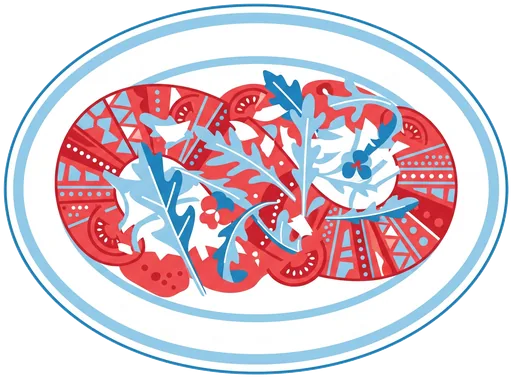
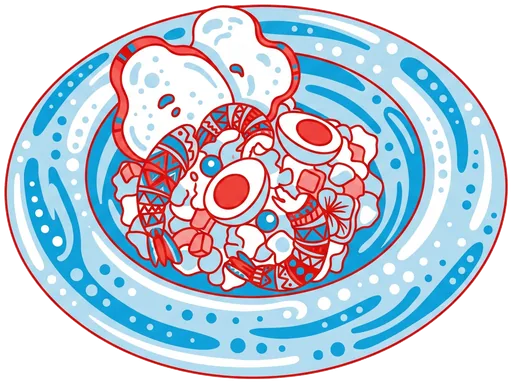
fix(menu): свап значков салаты↔закуски + значки в шапку раздела с индивид. масштабом
Наталья прислала правку: синяя тарелка (яйцо/пельмени) → авторские салаты,
красная с помидорами (стояла на салатах) → закуски. Перенёс starter-plate
в масштаб 1.32 к семье овальных тарелок (супы/горячее/салаты), иначе
перенесённый значок рендерился мельче.

Заодно в дереве: значки переведены из медальона-на-карточке в шапку раздела
(.mn__ch-iconbox, per-section --icon-scale/--icon-x/--icon-y) — чище и без
зависимости от структуры карточек; «Вонголе» → «Ракушки вонголе».

diff --git a/src/app/menu/page.tsx b/src/app/menu/page.tsx
@@ -132,7 +132,7 @@ const fmtP = (n: number) => formatNumber(n).replace(/ /g, " ");
 const NAV_LABEL: Record<string, string> = {
   crab: "Краб", raki: "Раки", starters: "Закуски", shrimp: "Креветки",
   salads: "Салаты", hot: "Горячее", soups: "Супы", mussels: "Мидии",
-  mains: "Главный курс", garnish: "Гарниры", vongole: "Вонголе", sauces: "Соусы",
+  mains: "Главный курс", garnish: "Гарниры", vongole: "Ракушки", sauces: "Соусы",
   desserts: "Десерты", drinks: "Напитки",
 };
 
@@ -140,7 +140,7 @@ const NAV_LABEL: Record<string, string> = {
 // Супу пока даём укроп — до появления ассета «суп/тарелка» от художницы.
 const SECTION_ICON: Record<string, string> = {
   crab: "crab", raki: "crayfish-heraldic", shrimp: "shrimp",
-  starters: "oyster-pearl", salads: "salad-plate", hot: "hot-plate",
+  starters: "starter-plate", salads: "salad-plate", hot: "hot-plate",
   soups: "soup-plate", mussels: "mussel-blue", vongole: "clam",
   mains: "main-plate", garnish: "dill-coral", sauces: "oyster-pearl",
   desserts: "dessert-plate",
@@ -206,6 +206,18 @@ function DrinkBadge({ entry }: { entry: MenuEntry }) {
   );
 }
 
+function SectionIcon({ id }: { id: string }) {
+  const icon = SECTION_ICON[id];
+  if (!icon) return null;
+
+  return (
+    <span className={`mn__ch-iconbox mn__ch-iconbox--${id}`} aria-hidden>
+      {/* eslint-disable-next-line @next/next/no-img-element */}
+      <img className="mn__ch-icon" src={`/ornaments/${icon}.webp`} alt="" />
+    </span>
+  );
+}
+
 // Полные фото с БЕЛЫМ студийным фоном (НЕ cutout) — ложатся под object-fit:cover карточек.
 const DISH_PHOTO: Record<string, string> = {
   "Камчатский краб с соусом бёр-нуазет": "/images/menu-crab-whole.webp",
@@ -250,13 +262,9 @@ const DISH_PHOTO: Record<string, string> = {
 const RAKI_FROM = Math.min(...rakiChapter.sizes.map((s) => s.price));
 
 /* ---------- РАКИ: 2 карточки (отварные/жареные); размеры+рецепты — в детали по тапу ---------- */
-function RakiBlock({ onOpen, medallion }: { onOpen: (p: RakiPreparation) => void; medallion?: string }) {
+function RakiBlock({ onOpen }: { onOpen: (p: RakiPreparation) => void }) {
   return (
     <div className="mn__cards">
-      {medallion ? (
-        // eslint-disable-next-line @next/next/no-img-element
-        <img className="mn__ch-icon mn__ch-icon--medallion" src={`/ornaments/${medallion}.webp`} alt="" aria-hidden />
-      ) : null}
       {rakiChapter.preparations.map((p) => (
         <button
           key={p.id}
@@ -817,15 +825,12 @@ export default function Menu() {
           <section className="mn__section" id={`mn-${sec.id}`} key={sec.id}>
             <h2 className="mn__ch">
               <span className="mn__ch-text">{sectionTitle(sec)}</span>
-              {SECTION_ICON[sec.id] && LIST_CATEGORIES.has(sec.id) ? (
-                // eslint-disable-next-line @next/next/no-img-element
-                <img className="mn__ch-icon mn__ch-icon--inline" src={`/ornaments/${SECTION_ICON[sec.id]}.webp`} alt="" aria-hidden />
-              ) : null}
+              <SectionIcon id={sec.id} />
             </h2>
             {sec.lede ? <span className="mn__ch-lede">{sec.lede}</span> : null}
             <div className="mn__rule" />
             {sec.id === "raki" ? (
-              <RakiBlock onOpen={setRakiPrep} medallion={SECTION_ICON[sec.id]} />
+              <RakiBlock onOpen={setRakiPrep} />
             ) : LIST_CATEGORIES.has(sec.id) ? (
               <div className={"mn__list" + (sec.id === "drinks" ? " mn__list--badges" : "")}>
                 {sec.entries.map((e, i) => {
@@ -865,10 +870,6 @@ export default function Menu() {
               </div>
             ) : (
               <div className="mn__cards">
-                {SECTION_ICON[sec.id] ? (
-                  // eslint-disable-next-line @next/next/no-img-element
-                  <img className="mn__ch-icon mn__ch-icon--medallion" src={`/ornaments/${SECTION_ICON[sec.id]}.webp`} alt="" aria-hidden />
-                ) : null}
                 {sec.entries.map((e, i) => {
                 const photo = DISH_PHOTO[e.name];
                 const showGroup = e.group && e.group !== sec.entries[i - 1]?.group;

diff --git a/src/app/menu/menu.css b/src/app/menu/menu.css
@@ -167,7 +167,8 @@ body:has(.mn) { background: #ffffff; }
 /* -------- секции + блюда -------- */
 .mn__section { padding: 30px 22px 8px; scroll-margin-top: 108px; }
 .mn__ch {
-  display: flex; align-items: center; justify-content: space-between; gap: 14px;
+  display: grid; grid-template-columns: minmax(0, 1fr) 92px; align-items: center; gap: 13px;
+  min-height: 78px;
   font-family: "Fraunces", "Cormorant Garamond", serif;
   font-weight: 500; font-size: clamp(27px, 7.7vw, 38px);
   line-height: 1.06; margin: 0 0 4px;
@@ -179,20 +180,40 @@ body:has(.mn) { background: #ffffff; }
    --medallion — «печать» на первой карточке раздела: якорь = сам грид
    карточек (position:relative), значок — его первый child с отрицательным
    top, поэтому позиция не зависит от высоты заголовка/леда. */
+.mn__ch-iconbox {
+  --icon-scale: 1;
+  justify-self: end;
+  width: 92px;
+  height: 78px;
+  display: grid;
+  place-items: center;
+  margin-right: -8px;
+  pointer-events: none;
+  opacity: 0.95;
+  filter: drop-shadow(0 9px 18px rgba(32,43,54,0.16));
+}
 .mn__ch-icon {
+  display: block;
+  width: 100%;
+  height: 100%;
   object-fit: contain;
+  transform: translate(var(--icon-x, 0), var(--icon-y, 0)) scale(var(--icon-scale));
+  transform-origin: center;
 }
-.mn__ch-icon--inline {
-  flex: 0 0 auto; width: 76px; height: 76px;
-  opacity: 0.95; margin-right: -10px;
-}
+.mn__ch-iconbox--crab,
+.mn__ch-iconbox--raki { --icon-scale: 1.05; }
+.mn__ch-iconbox--shrimp { --icon-scale: 1.16; }
+.mn__ch-iconbox--mains { --icon-scale: 1.58; --icon-x: -14px; }
+.mn__ch-iconbox--desserts { --icon-scale: 1.38; --icon-x: -6px; }
+.mn__ch-iconbox--hot,
+.mn__ch-iconbox--soups,
+.mn__ch-iconbox--salads,
+.mn__ch-iconbox--starters { --icon-scale: 1.32; }
+.mn__ch-iconbox--mussels,
+.mn__ch-iconbox--vongole { --icon-scale: 1.08; }
+.mn__ch-iconbox--sauces { --icon-scale: 1.1; --icon-x: -17px; --icon-y: 14px; }
+.mn__ch-iconbox--garnish { --icon-scale: 1.12; }
 .mn__cards { position: relative; }
-.mn__ch-icon--medallion {
-  position: absolute; top: -34px; right: 12px; z-index: 5;
-  width: 96px; height: 96px;
-  opacity: 0.94; pointer-events: none;
-  filter: drop-shadow(0 8px 18px rgba(32,43,54,0.2));
-}
 .mn__ch-origin {
   font-size: 9px; letter-spacing: 0.22em; text-transform: uppercase;
   color: rgba(19,32,42,0.45);

diff --git a/src/data/menu.ts b/src/data/menu.ts
@@ -350,8 +350,7 @@ export const chapters: Chapter[] = [
   },
   {
     id: "vongole",
-    title: "Вонголе",
-    lede: "Ракушки.",
+    title: "Ракушки вонголе",
     entries: [
       {
         name: "Вонголе в соусе",
